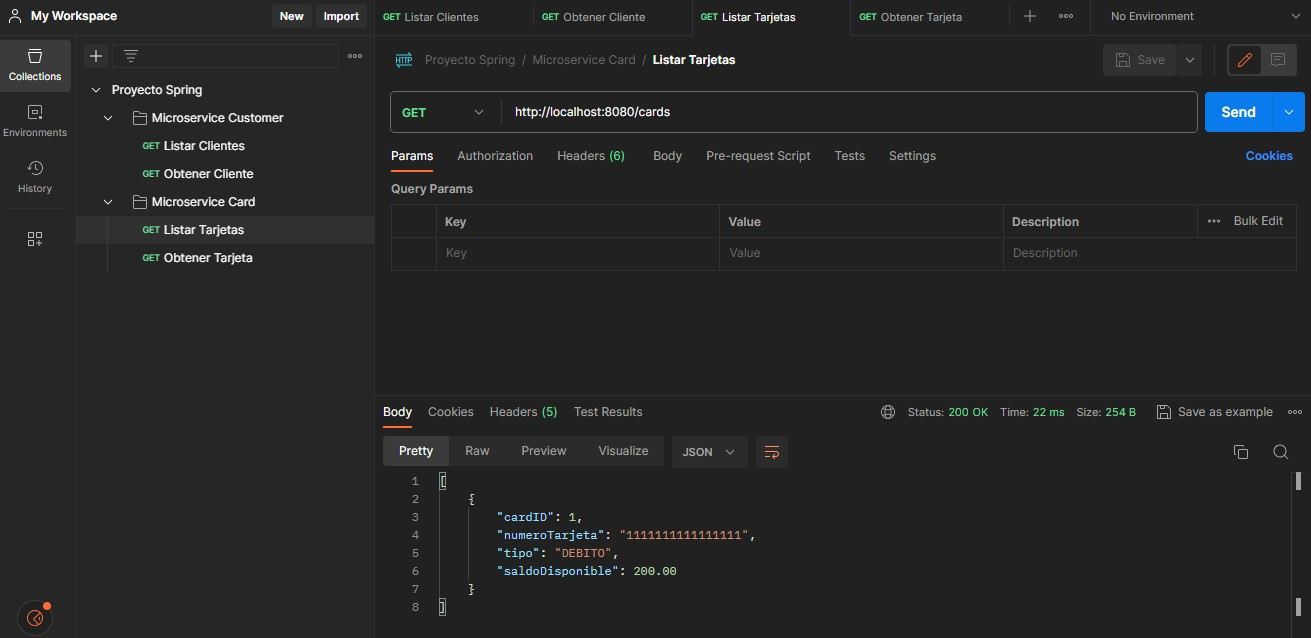
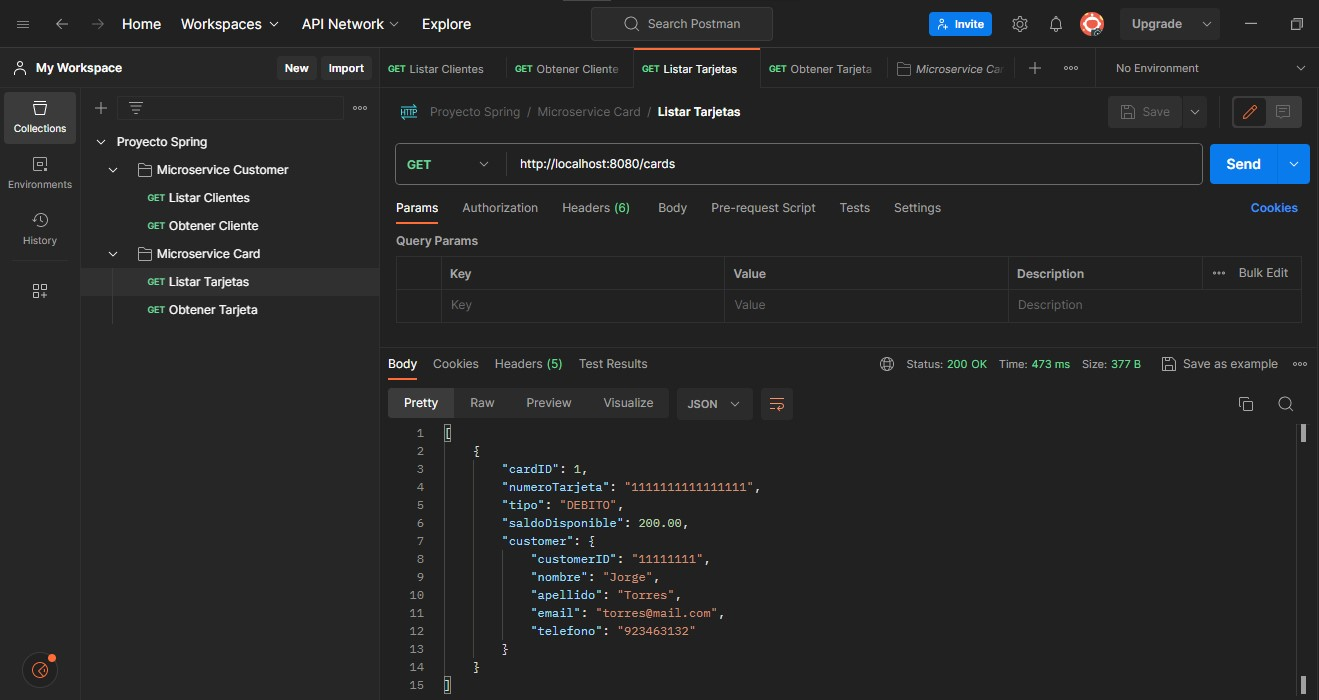
Avances DTO

diff --git a/MicroserviceEstablishment/src/main/java/com/bbva/MicroserviceEstablishment/exceptions/GlobalExceptionController.java b/MicroserviceEstablishment/src/main/java/com/bbva/MicroserviceEstablishment/exceptions/GlobalExceptionController.java
@@ -1,0 +1,23 @@
+package com.bbva.MicroserviceEstablishment.exceptions;
+
+import com.bbva.MicroserviceCard.response.ApiResponse;
+import org.springframework.http.HttpStatus;
+import org.springframework.http.ResponseEntity;
+import org.springframework.web.bind.annotation.ExceptionHandler;
+import org.springframework.web.bind.annotation.RestControllerAdvice;
+
+@RestControllerAdvice
+public class GlobalExceptionController {
+
+    @ExceptionHandler(ResourceNotFoundException.class)
+    public ResponseEntity<ApiResponse> handlerResourceNotFoundException(ResourceNotFoundException resourceNotFoundException) {
+        String mensaje = resourceNotFoundException.getMessage();
+
+        ApiResponse response = new ApiResponse().builder()
+                .message(mensaje)
+                .success(true)
+                .status(HttpStatus.NOT_FOUND)
+                .build();
+        return new ResponseEntity<>(response, HttpStatus.NOT_FOUND);
+    }
+}

diff --git a/MicroserviceCard/src/main/java/com/bbva/MicroserviceCard/services/CustomerServiceImpl.java b/MicroserviceCard/src/main/java/com/bbva/MicroserviceCard/services/CustomerServiceImpl.java
@@ -1,0 +1,26 @@
+package com.bbva.MicroserviceCard.services;
+
+import com.bbva.MicroserviceCard.entity.Customer;
+import com.bbva.MicroserviceCard.exceptions.ResourceNotFoundException;
+import com.bbva.MicroserviceCard.repositories.ICustomerRepository;
+import org.springframework.beans.factory.annotation.Autowired;
+import org.springframework.stereotype.Service;
+
+import java.util.List;
+
+@Service
+public class CustomerServiceImpl implements ICustomerService {
+
+    @Autowired
+    private ICustomerRepository customerRepository;
+
+    @Override
+    public List<Customer> getAllCustomers() {
+        return customerRepository.findAll();
+    }
+
+    @Override
+    public Customer getCustomer(String customerID) {
+        return customerRepository.findById(customerID).orElseThrow(() -> new ResourceNotFoundException("Cliente no encontrado no el ID: " + customerID));
+    }
+}

diff --git a/MicroserviceCard/src/main/java/com/bbva/MicroserviceCard/entity/Customer.java b/MicroserviceCard/src/main/java/com/bbva/MicroserviceCard/entity/Customer.java
@@ -1,0 +1,25 @@
+package com.bbva.MicroserviceCard.entity;
+
+import jakarta.persistence.Entity;
+import jakarta.persistence.Id;
+import jakarta.persistence.Table;
+import lombok.AllArgsConstructor;
+import lombok.Getter;
+import lombok.NoArgsConstructor;
+import lombok.Setter;
+
+@Getter
+@Setter
+@AllArgsConstructor
+@NoArgsConstructor
+@Entity
+@Table(name = "customers")
+public class Customer {
+
+    @Id
+    private String customerID;
+    private String nombre;
+    private String apellido;
+    private String email;
+    private String telefono;
+}

diff --git a/MicroserviceEstablishment/src/main/java/com/bbva/MicroserviceEstablishment/entity/Establishment.java b/MicroserviceEstablishment/src/main/java/com/bbva/MicroserviceEstablishment/entity/Establishment.java
@@ -1,0 +1,25 @@
+package com.bbva.MicroserviceEstablishment.entity;
+
+import jakarta.persistence.Entity;
+import jakarta.persistence.Id;
+import jakarta.persistence.Table;
+import lombok.AllArgsConstructor;
+import lombok.Getter;
+import lombok.NoArgsConstructor;
+import lombok.Setter;
+
+@Getter
+@Setter
+@AllArgsConstructor
+@NoArgsConstructor
+@Entity
+@Table(name = "establishments")
+public class Establishment {
+
+    @Id
+    private Integer establishmentID;
+
+    private String nombre;
+
+    private String direccion;
+}

diff --git a/MicroserviceCard/src/main/java/com/bbva/MicroserviceCard/DTO/CustomerDTO.java b/MicroserviceCard/src/main/java/com/bbva/MicroserviceCard/DTO/CustomerDTO.java
@@ -1,0 +1,19 @@
+package com.bbva.MicroserviceCard.DTO;
+
+import lombok.AllArgsConstructor;
+import lombok.Getter;
+import lombok.NoArgsConstructor;
+import lombok.Setter;
+
+@Getter
+@Setter
+@AllArgsConstructor
+@NoArgsConstructor
+public class CustomerDTO {
+
+    private String customerID;
+    private String nombre;
+    private String apellido;
+    private String email;
+    private String telefono;
+}

diff --git a/MicroserviceEstablishment/src/main/java/com/bbva/MicroserviceEstablishment/exceptions/ResourceNotFoundException.java b/MicroserviceEstablishment/src/main/java/com/bbva/MicroserviceEstablishment/exceptions/ResourceNotFoundException.java
@@ -1,0 +1,12 @@
+package com.bbva.MicroserviceEstablishment.exceptions;
+
+public class ResourceNotFoundException extends RuntimeException {
+
+    public ResourceNotFoundException() {
+        super("Recurso no encontrado en el servidor !!!");
+    }
+
+    public ResourceNotFoundException(String message) {
+        super(message);
+    }
+}

diff --git a/MicroserviceEstablishment/src/main/java/com/bbva/MicroserviceEstablishment/response/ApiResponse.java b/MicroserviceEstablishment/src/main/java/com/bbva/MicroserviceEstablishment/response/ApiResponse.java
@@ -1,0 +1,16 @@
+package com.bbva.MicroserviceEstablishment.response;
+
+import lombok.*;
+import org.springframework.http.HttpStatus;
+
+@Getter
+@Setter
+@AllArgsConstructor
+@NoArgsConstructor
+@Builder
+public class ApiResponse {
+
+    private String message;
+    private boolean success;
+    private HttpStatus status;
+}

diff --git a/MicroserviceEstablishment/src/main/java/com/bbva/MicroserviceEstablishment/service/IEstablishmentService.java b/MicroserviceEstablishment/src/main/java/com/bbva/MicroserviceEstablishment/service/IEstablishmentService.java
@@ -1,0 +1,12 @@
+package com.bbva.MicroserviceEstablishment.service;
+
+import com.bbva.MicroserviceEstablishment.entity.Establishment;
+
+import java.util.List;
+
+public interface IEstablishmentService {
+
+    List<Establishment> getAllEstablishment();
+
+    Establishment getCard(Integer EstablishmentID);
+}

diff --git a/MicroserviceEstablishment/src/main/java/com/bbva/MicroserviceEstablishment/repositories/IEstablishmentRepository.java b/MicroserviceEstablishment/src/main/java/com/bbva/MicroserviceEstablishment/repositories/IEstablishmentRepository.java
@@ -1,0 +1,7 @@
+package com.bbva.MicroserviceEstablishment.repositories;
+
+import com.bbva.MicroserviceEstablishment.entity.Establishment;
+import org.springframework.data.jpa.repository.JpaRepository;
+
+public interface IEstablishmentRepository extends JpaRepository<Establishment, Integer> {
+}

diff --git a/MicroserviceCard/src/main/java/com/bbva/MicroserviceCard/services/ICustomerService.java b/MicroserviceCard/src/main/java/com/bbva/MicroserviceCard/services/ICustomerService.java
@@ -1,0 +1,13 @@
+package com.bbva.MicroserviceCard.services;
+
+import com.bbva.MicroserviceCard.entity.Customer;
+
+import java.util.List;
+
+public interface ICustomerService {
+
+    List<Customer> getAllCustomers();
+
+    Customer getCustomer(String customerID);
+
+}

diff --git a/MicroserviceCard/src/main/java/com/bbva/MicroserviceCard/repositories/ICustomerRepository.java b/MicroserviceCard/src/main/java/com/bbva/MicroserviceCard/repositories/ICustomerRepository.java
@@ -1,0 +1,7 @@
+package com.bbva.MicroserviceCard.repositories;
+
+import com.bbva.MicroserviceCard.entity.Customer;
+import org.springframework.data.jpa.repository.JpaRepository;
+
+public interface ICustomerRepository extends JpaRepository<Customer, String> {
+}

diff --git a/MicroserviceCard/src/main/java/com/bbva/MicroserviceCard/entity/Card.java b/MicroserviceCard/src/main/java/com/bbva/MicroserviceCard/entity/Card.java
@@ -26,8 +26,8 @@ public class Card {
 
     private BigDecimal saldoDisponible;
 
-    /*@ManyToOne
+    @ManyToOne
     @JoinColumn(name = "customerID")
-    private Customer customer;*/
+    private Customer customer;
 
 }
